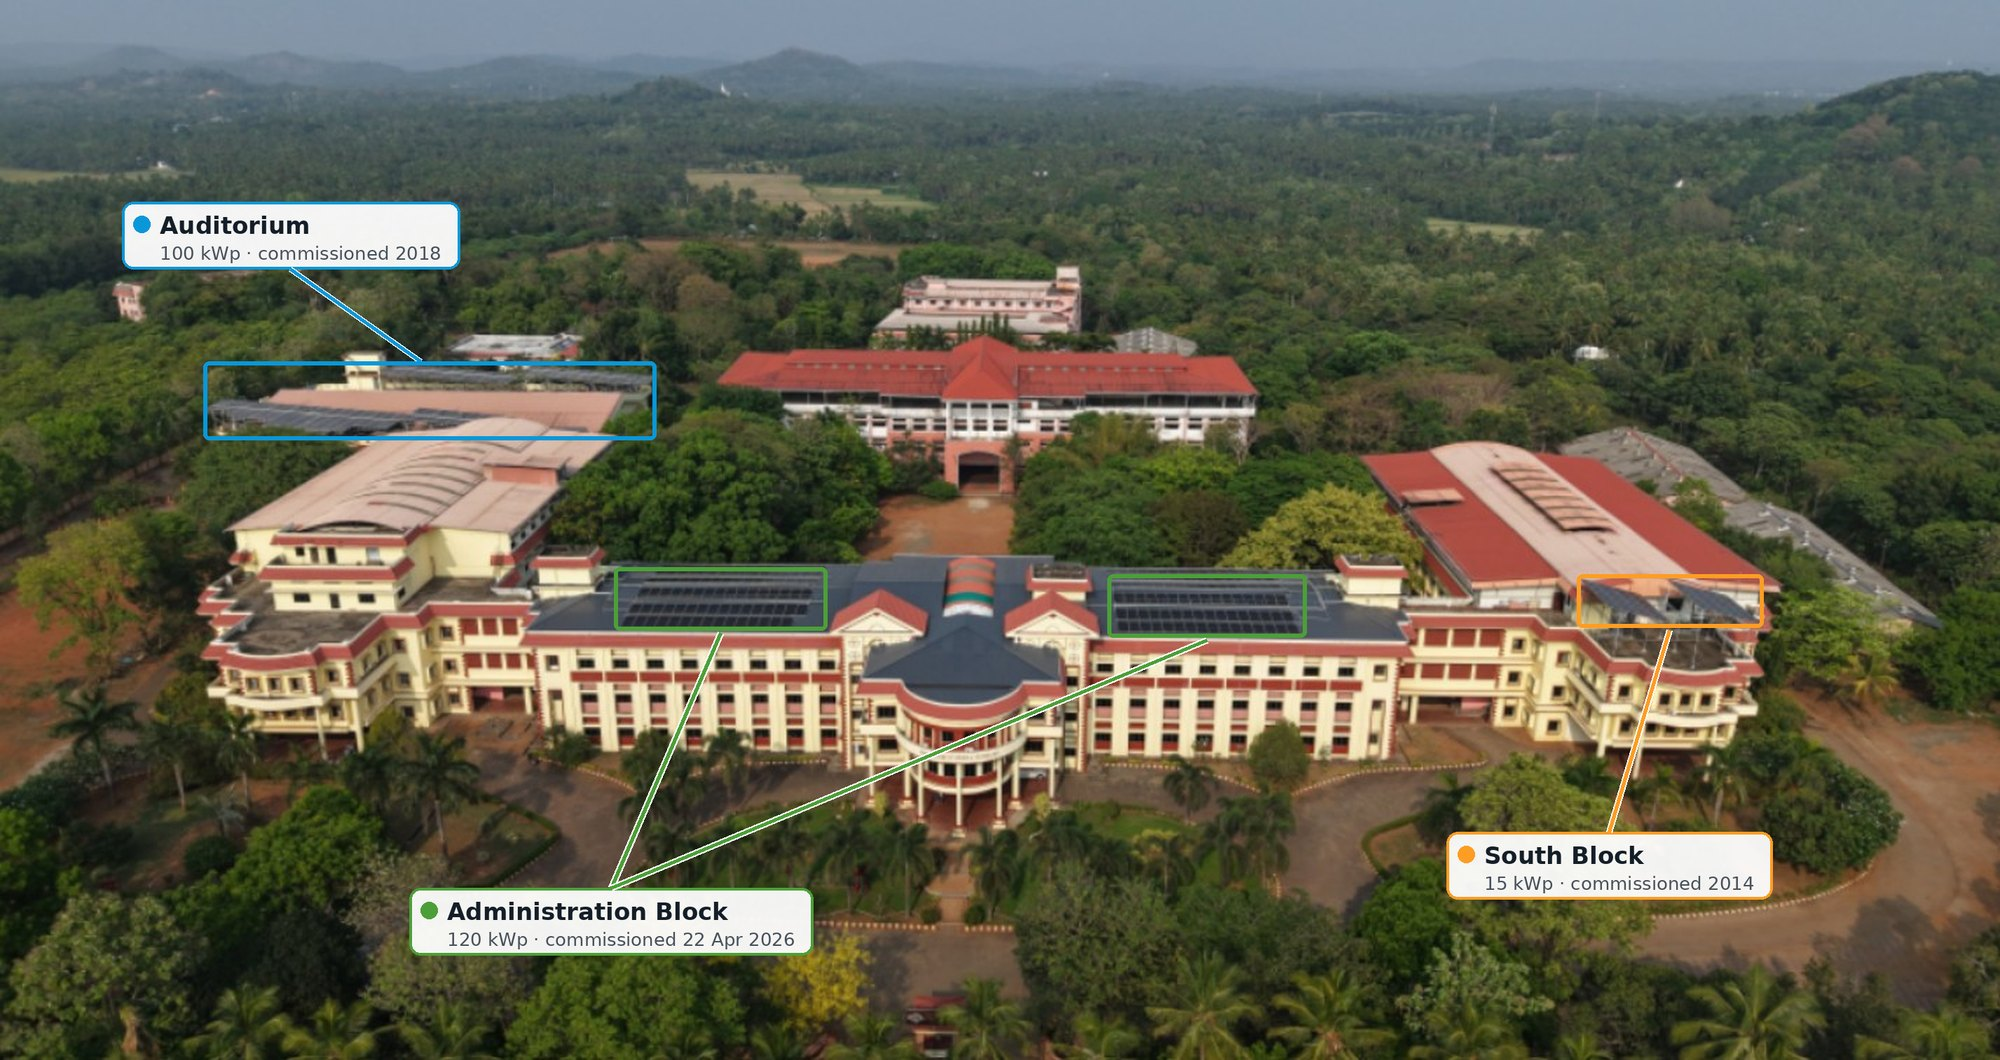
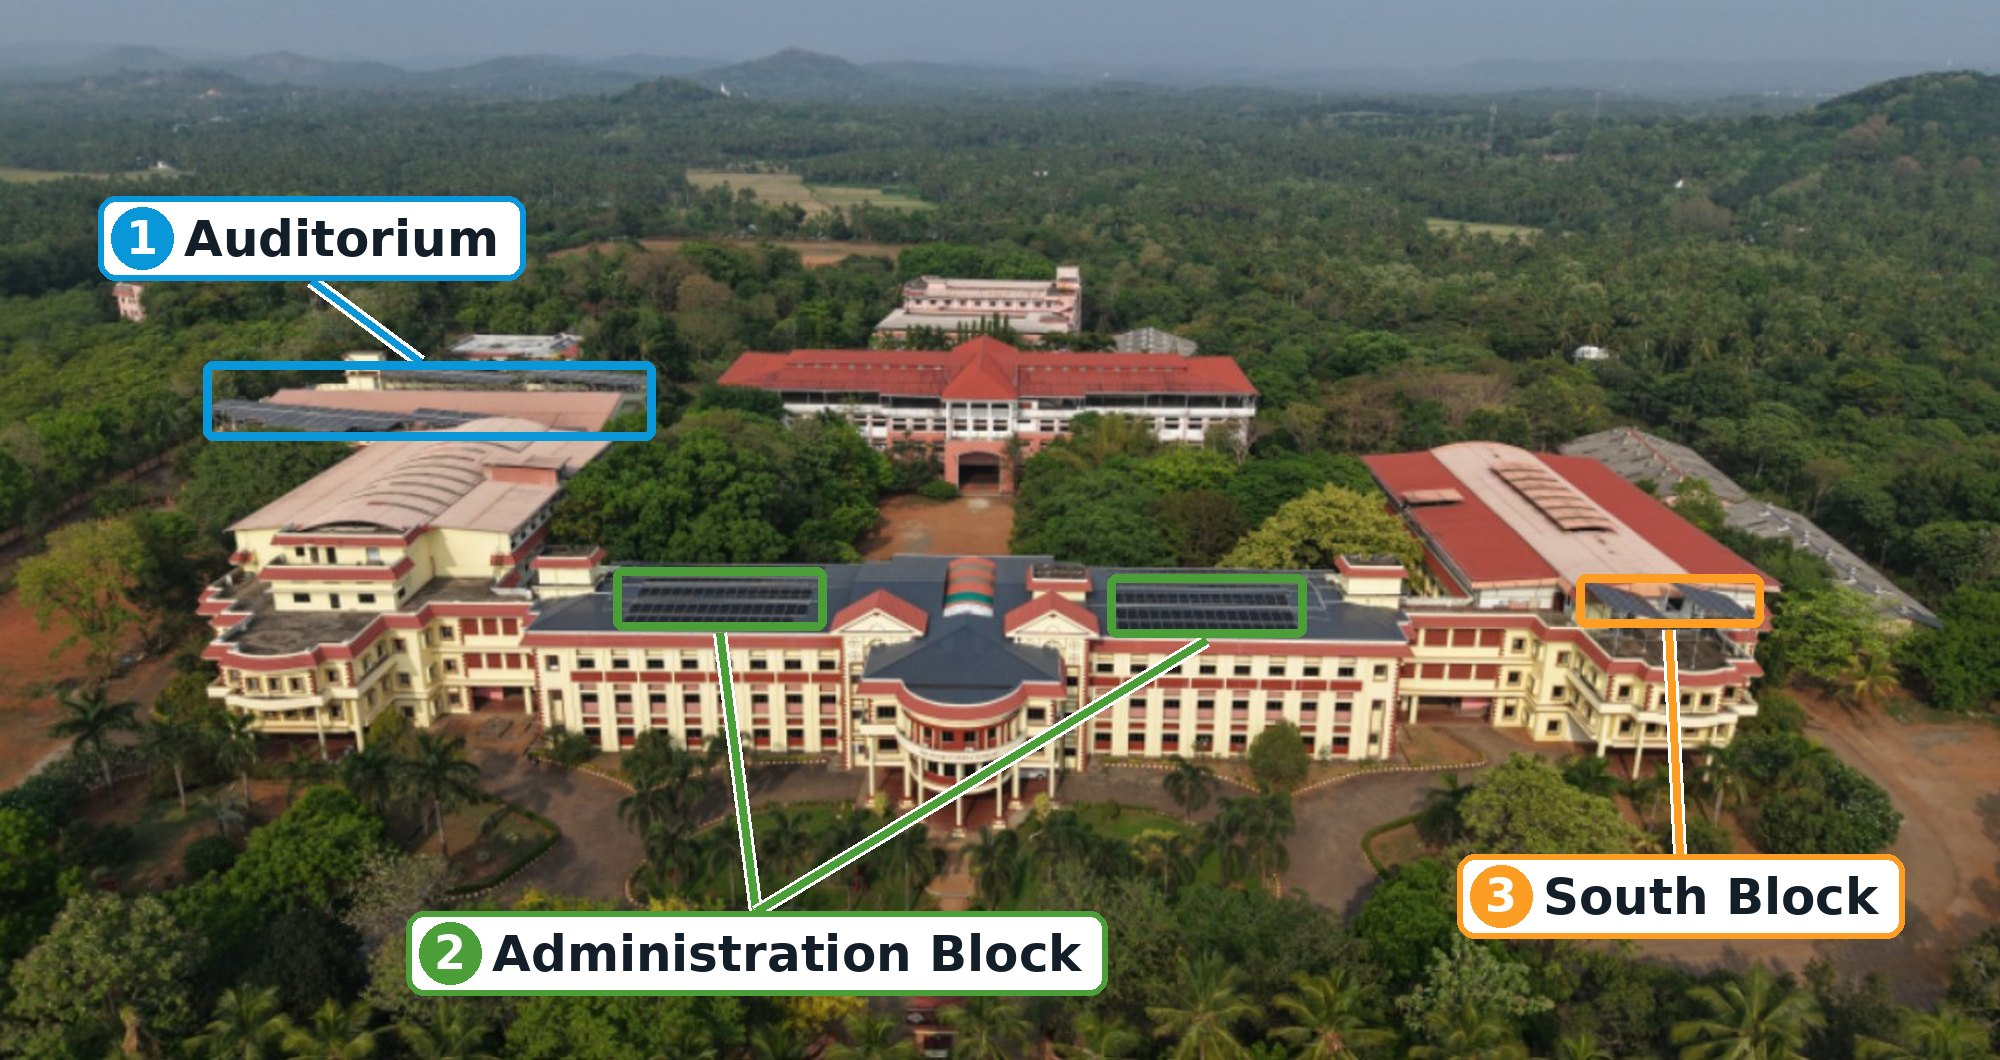
Make solar location labels larger and add a legend under the photo
Claude-Session: https://claude.ai/code/session_01ACM86D7ox4sxawbQSZgBJW

diff --git a/solar.html b/solar.html
@@ -4,7 +4,7 @@
 <meta charset="utf-8">
 <meta name="viewport" content="width=device-width, initial-scale=1">
 <title>Solar Statistics | Vidya Academy of Science and Technology</title>
-<link rel="stylesheet" href="style.css?v=54d0f3e">
+<link rel="stylesheet" href="style.css?v=45fd543">
 </head>
 <body data-page="solar">
 <header class="site-header" id="header"></header>
@@ -57,6 +57,11 @@
           <a href="images/solar-locations.jpg" target="_blank" rel="noopener"><img src="images/solar-locations.jpg" alt="Aerial view of the VAST campus with the three rooftop solar installations marked: Auditorium (100 kWp), Administration Block (120 kWp) and South Block (15 kWp)" loading="lazy"></a>
           <figcaption>Aerial view of the campus with the three rooftop solar installations marked. Select the photo to open it full size.</figcaption>
         </figure>
+        <ol class="loc-legend">
+          <li style="--c:#0A97D9"><span class="n">1</span><div><strong>Auditorium</strong><small>100 kWp · commissioned 2018</small></div></li>
+          <li style="--c:#4C9F38"><span class="n">2</span><div><strong>Administration Block</strong><small>120 kWp · commissioned 22 April 2026</small></div></li>
+          <li style="--c:#FD9D24"><span class="n">3</span><div><strong>South Block</strong><small>15 kWp · commissioned 2014</small></div></li>
+        </ol>
 
         <div class="section-heading"><span class="eyebrow">GENERATION</span><h2>Monthly solar generation</h2><p id="chart-note"></p></div>
         <div class="chart-card"><div class="legend" id="legend-a"></div><div id="chart-a"></div></div>

diff --git a/style.css b/style.css
@@ -418,3 +418,9 @@ main p a:hover,main li a:hover,.callout a:hover,footer a:hover,.bar-gap a:hover{
 .locations{margin:0}
 .locations img{width:100%;height:auto;display:block;border-radius:20px;box-shadow:0 12px 34px rgba(19,62,43,.15);border:1px solid var(--line)}
 .locations figcaption{margin-top:8px;color:var(--muted);font-size:.85rem}
+
+.loc-legend{list-style:none;padding:0;margin:14px 0 0;display:grid;grid-template-columns:repeat(auto-fit,minmax(230px,1fr));gap:12px}
+.loc-legend li{display:flex;align-items:center;gap:12px;background:var(--card);border:1px solid var(--line);border-left:6px solid var(--c);border-radius:12px;padding:12px 14px}
+.loc-legend .n{display:grid;place-items:center;flex:none;width:34px;height:34px;border-radius:50%;background:var(--c);color:#fff;font-weight:800}
+.loc-legend strong{display:block}
+.loc-legend small{color:var(--muted)}

diff --git a/index.html b/index.html
@@ -5,7 +5,7 @@
 <meta name="viewport" content="width=device-width, initial-scale=1">
 <title>SDG Activities | Vidya Academy of Science and Technology</title>
 <meta name="description" content="Sustainable Development Goals activities and impact at Vidya Academy of Science and Technology.">
-<link rel="stylesheet" href="style.css?v=54d0f3e">
+<link rel="stylesheet" href="style.css?v=45fd543">
 </head>
 <body data-page="home">
 

diff --git a/evidence.html b/evidence.html
@@ -5,7 +5,7 @@
 <meta name="viewport" content="width=device-width, initial-scale=1">
 <meta name="robots" content="noindex">
 <title>Evidence Checklist | Vidya Academy of Science and Technology</title>
-<link rel="stylesheet" href="style.css?v=54d0f3e">
+<link rel="stylesheet" href="style.css?v=45fd543">
 </head>
 <body data-page="evidence">
 <header class="site-header" id="header"></header>

diff --git a/initiatives.html b/initiatives.html
@@ -4,7 +4,7 @@
 <meta charset="utf-8">
 <meta name="viewport" content="width=device-width, initial-scale=1">
 <title>Campus Initiatives | Vidya Academy of Science and Technology</title>
-<link rel="stylesheet" href="style.css?v=54d0f3e">
+<link rel="stylesheet" href="style.css?v=45fd543">
 </head>
 <body data-page="initiatives">
 <header class="site-header" id="header"></header>

diff --git a/initiative.html b/initiative.html
@@ -4,7 +4,7 @@
 <meta charset="utf-8">
 <meta name="viewport" content="width=device-width, initial-scale=1">
 <title>Initiative | Vidya Academy of Science and Technology</title>
-<link rel="stylesheet" href="style.css?v=54d0f3e">
+<link rel="stylesheet" href="style.css?v=45fd543">
 </head>
 <body data-page="initiative">
 <header class="site-header" id="header"></header>

diff --git a/carbon.html b/carbon.html
@@ -4,7 +4,7 @@
 <meta charset="utf-8">
 <meta name="viewport" content="width=device-width, initial-scale=1">
 <title>Carbon Impact | Vidya Academy of Science and Technology</title>
-<link rel="stylesheet" href="style.css?v=54d0f3e">
+<link rel="stylesheet" href="style.css?v=45fd543">
 </head>
 <body data-page="carbon">
 <header class="site-header" id="header"></header>

diff --git a/sdg-mapping.html b/sdg-mapping.html
@@ -4,7 +4,7 @@
 <meta charset="utf-8">
 <meta name="viewport" content="width=device-width, initial-scale=1">
 <title>SDG Mapping | Vidya Academy of Science and Technology</title>
-<link rel="stylesheet" href="style.css?v=54d0f3e">
+<link rel="stylesheet" href="style.css?v=45fd543">
 </head>
 <body data-page="mapping">
 <header class="site-header" id="header"></header>

diff --git a/about.html b/about.html
@@ -4,7 +4,7 @@
 <meta charset="utf-8">
 <meta name="viewport" content="width=device-width, initial-scale=1">
 <title>About VAST | Vidya Academy of Science and Technology</title>
-<link rel="stylesheet" href="style.css?v=54d0f3e">
+<link rel="stylesheet" href="style.css?v=45fd543">
 </head>
 <body data-page="about">
 <header class="site-header" id="header"></header>

diff --git a/contact.html b/contact.html
@@ -4,7 +4,7 @@
 <meta charset="utf-8">
 <meta name="viewport" content="width=device-width, initial-scale=1">
 <title>Contact | Vidya Academy of Science and Technology</title>
-<link rel="stylesheet" href="style.css?v=54d0f3e">
+<link rel="stylesheet" href="style.css?v=45fd543">
 </head>
 <body data-page="contact">
 <header class="site-header" id="header"></header>

diff --git a/gallery.html b/gallery.html
@@ -4,7 +4,7 @@
 <meta charset="utf-8">
 <meta name="viewport" content="width=device-width, initial-scale=1">
 <title>Gallery | Vidya Academy of Science and Technology</title>
-<link rel="stylesheet" href="style.css?v=54d0f3e">
+<link rel="stylesheet" href="style.css?v=45fd543">
 </head>
 <body data-page="gallery">
 <header class="site-header" id="header"></header>

diff --git a/sdg.html b/sdg.html
@@ -4,7 +4,7 @@
 <meta charset="utf-8">
 <meta name="viewport" content="width=device-width, initial-scale=1">
 <title>SDG Goal | Vidya Academy of Science and Technology</title>
-<link rel="stylesheet" href="style.css?v=54d0f3e">
+<link rel="stylesheet" href="style.css?v=45fd543">
 </head>
 <body data-page="goal">
 
